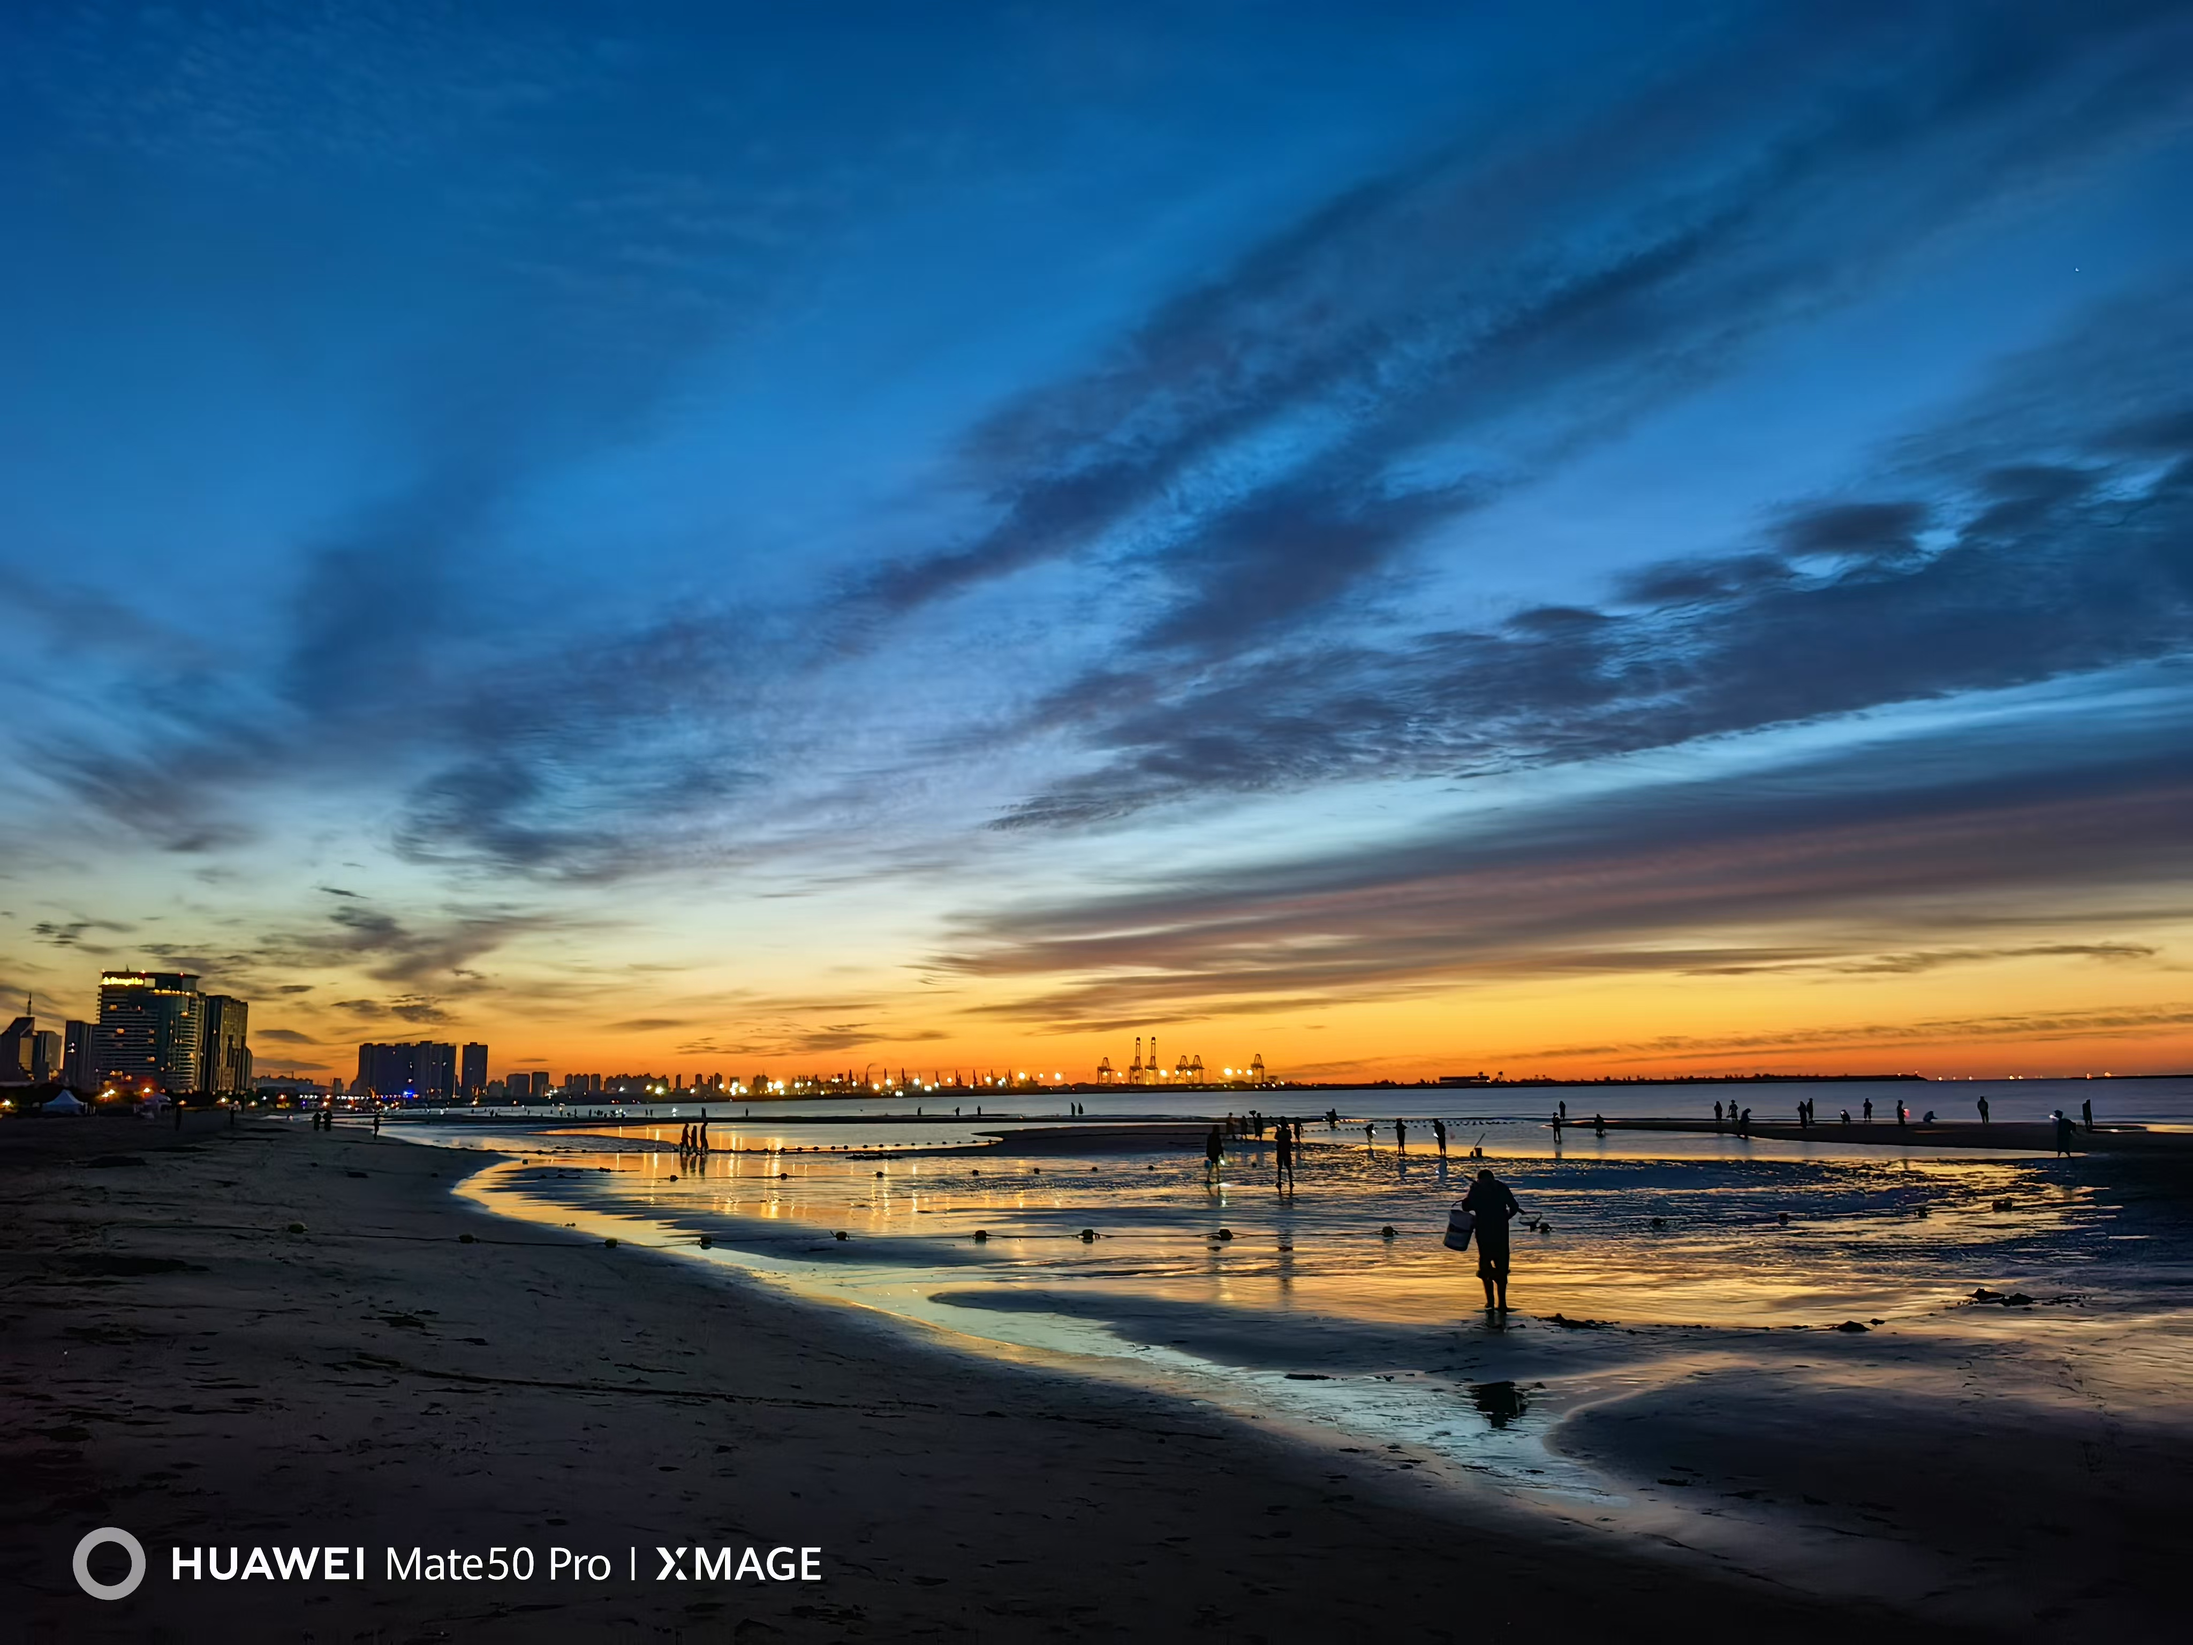
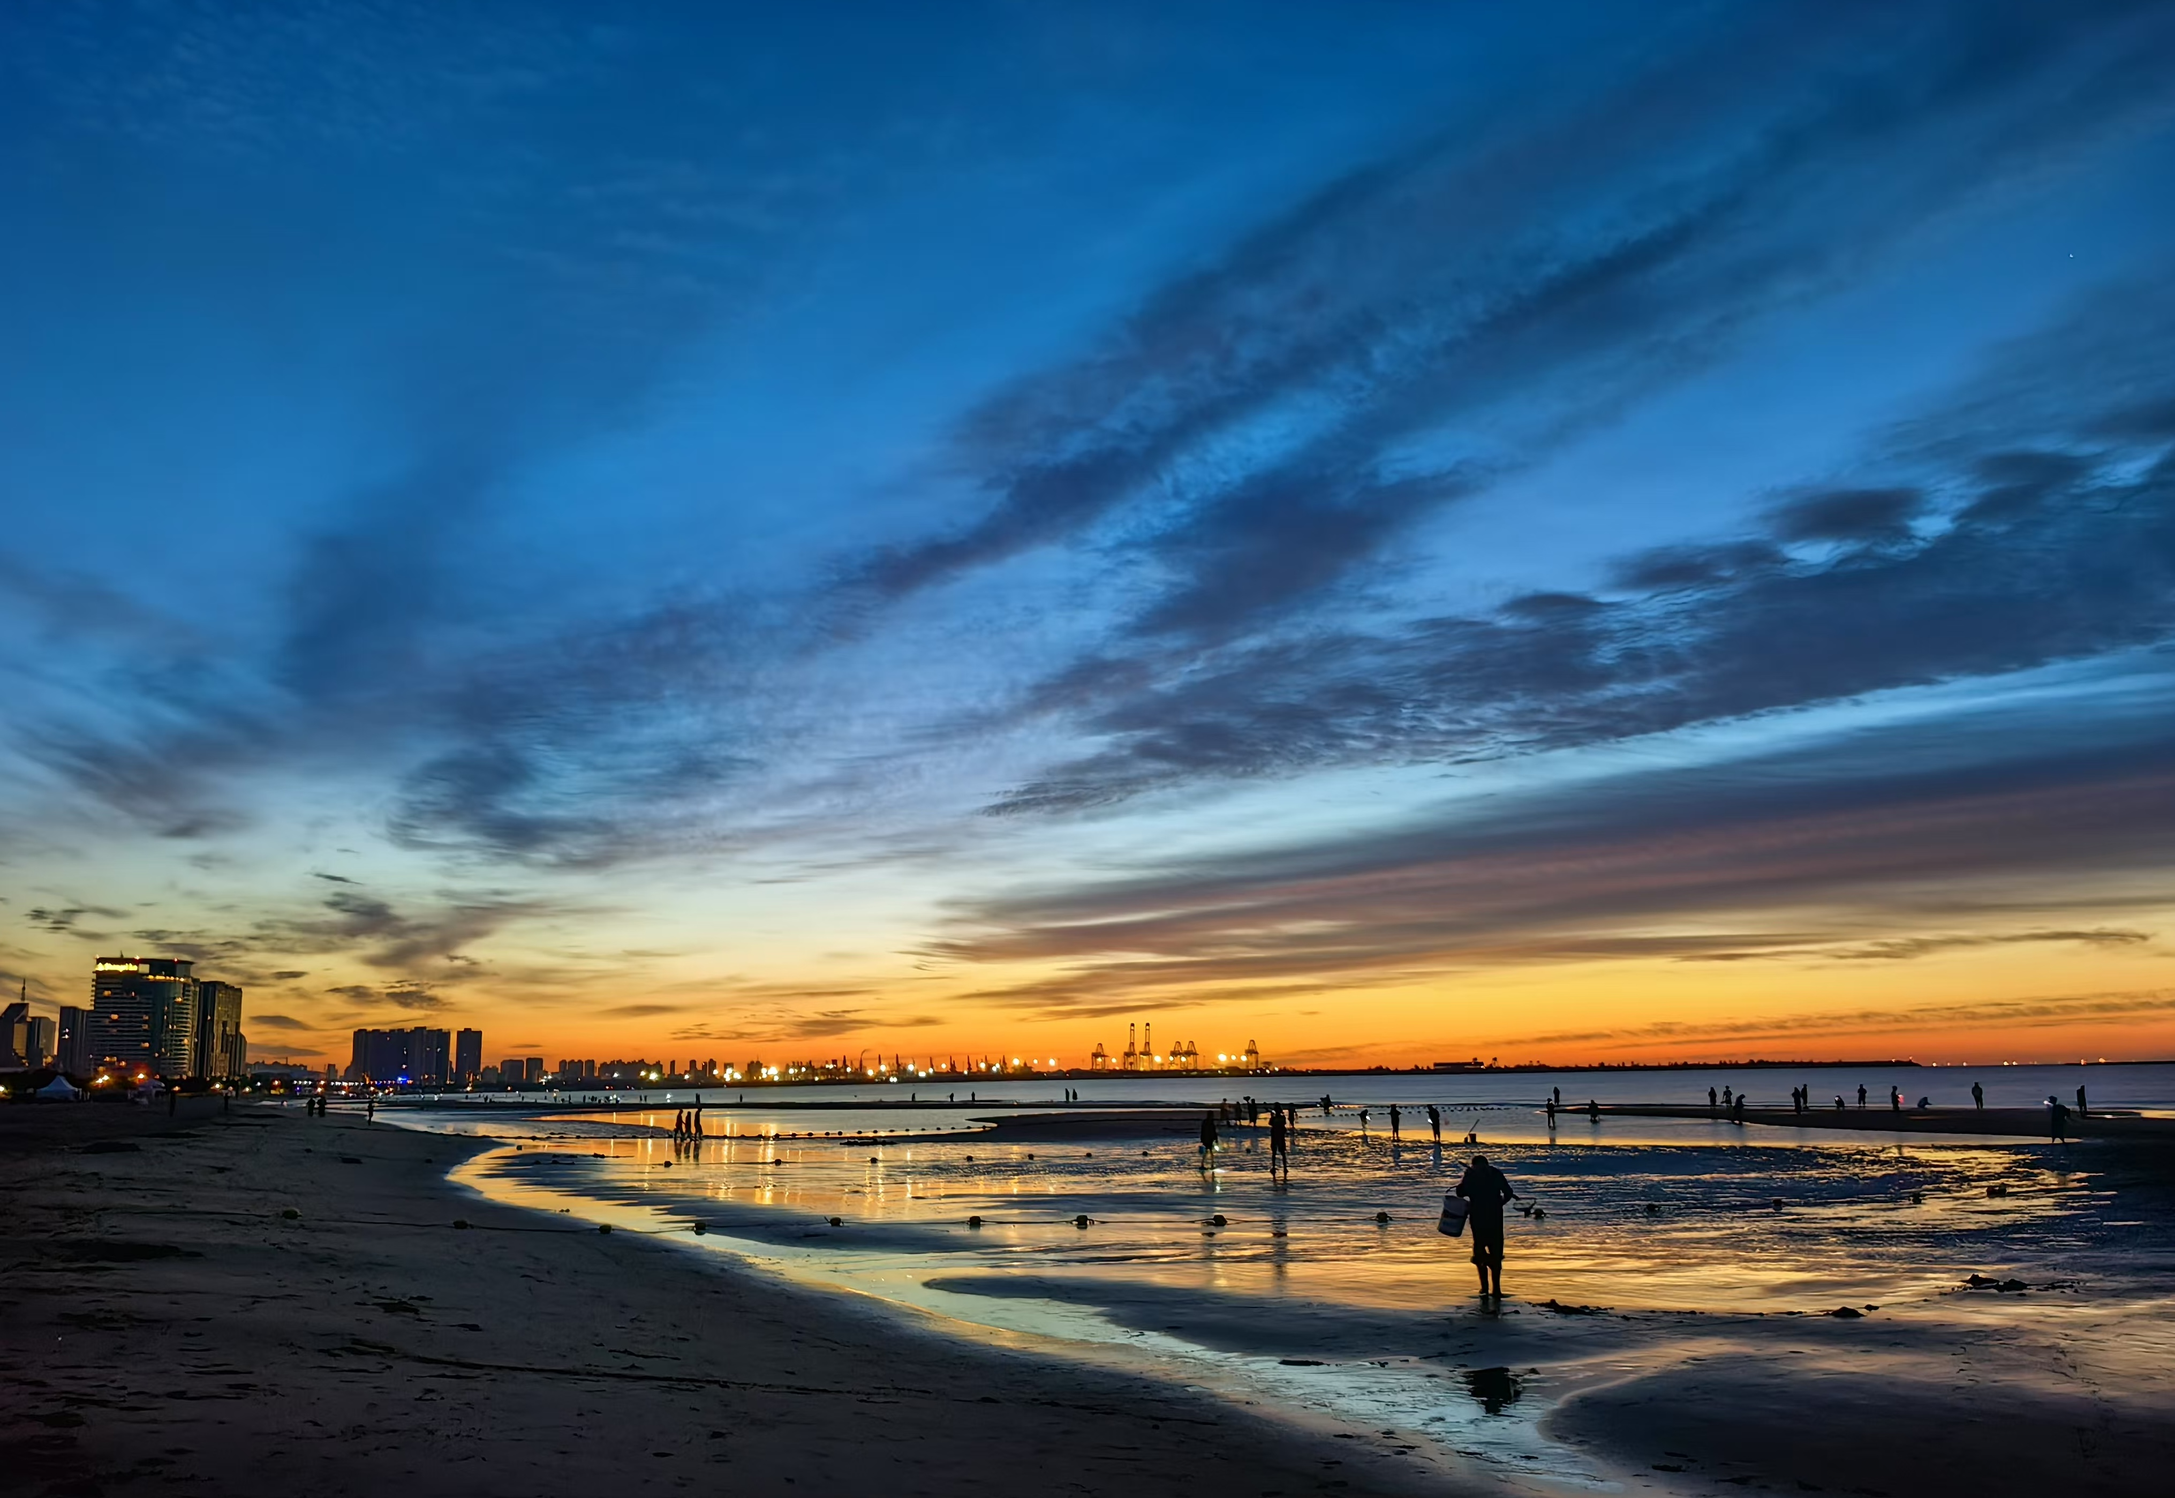
恢复 Articles 原时间线并保留两篇论文；纠正图片用途：background.jpg 作头像、Mars_background.jpg 作背景

diff --git a/index.html b/index.html
@@ -149,6 +149,26 @@
                     </a>
                 </div>
 
+                <div class="right-div left-time">
+                    <ul id="line">
+                        <li>
+                            <div class="focus"></div>
+                            <div>实验中，敬请期待</div>
+                            <div>2025.02</div>
+                        </li>
+                        <li>
+                            <div class="focus"></div>
+                            <div>拿到试验样品</div>
+                            <div>2024.12</div>
+                        </li>
+                        <li>
+                            <div class="focus"></div>
+                            <div>项目立项</div>
+                            <div>2024.10</div>
+                        </li>
+                    </ul>
+                </div>
+
                 <div class="title"><svg t="1705257422086" class="icon" viewBox="0 0 1024 1024" version="1.1" xmlns="http://www.w3.org/2000/svg" p-id="1891" >
                         <path d="M629.333333 202.666667v213.333333h277.333334v448h-512v-213.333333h-277.333334v-448h512z m213.333334 277.333333h-213.333334v170.666667h-170.666666v149.333333h384v-320z m-277.333334-213.333333h-384v320h213.333334v-170.666667h170.666666v-149.333333z m0 213.333333h-106.666666v106.666667h106.666666v-106.666667z"  p-id="1892"></path>
                     </svg>Reviews

diff --git a/style.css b/style.css
@@ -191,16 +191,10 @@ body {
     aspect-ratio: 1/1;
     margin-top: 50px;
     border-radius: 50%;
-    background: radial-gradient(circle at 35% 30%, #a78bfa 0%, #6d5efc 45%, #4f46e5 100%);
-}
-
-.logo::after {
-    content: "";
-    position: absolute;
-    inset: -6%;
-    border-radius: 50%;
-    border: 3px solid rgba(196, 181, 253, 0.7);
-    transform: rotate(-22deg) scaleY(0.42);
+    background-image: var(--avatar_image);
+    background-size: cover;
+    background-position: center;
+    box-shadow: 0 8px 24px -8px #00000040;
 }
 
 .right-div {
@@ -333,17 +327,11 @@ body {
     max-width: 200px;
     aspect-ratio: 1/1;
     border-radius: 50%;
-    border: 0.5px solid #ffffff;
-    background: radial-gradient(circle at 35% 30%, #a78bfa 0%, #6d5efc 45%, #4f46e5 100%);
-}
-
-.index-logo::after {
-    content: "";
-    position: absolute;
-    inset: -6%;
-    border-radius: 50%;
-    border: 3px solid rgba(196, 181, 253, 0.7);
-    transform: rotate(-22deg) scaleY(0.42);
+    border: 2px solid #ffffff;
+    background-image: var(--avatar_image);
+    background-size: cover;
+    background-position: center;
+    box-shadow: 0 8px 24px -8px #00000055;
 }
 
 .description {

diff --git a/root.css b/root.css
@@ -7,7 +7,8 @@
 /* ===== 浅色主题（默认） ===== */
 html {
     --main_bg_color: linear-gradient(160deg, #cfe8ff 0%, #eaf2ff 45%, #ffffff 100%);
-    --bg_image: url("background.jpg");
+    --bg_image: url("Mars_background.jpg");
+    --avatar_image: url("background.jpg");
     --main_text_color: #1a1a1a;
     --gradient: linear-gradient(120deg, #bd34fe, #e0321b 30%, #41d1ff 60%);
     --purple_text_color: #6d5efc;
@@ -28,6 +29,7 @@ html {
 html[data-theme="Dark"] {
     --main_bg_color: linear-gradient(160deg, #0f0c29 0%, #302b63 50%, #24243e 100%);
     --bg_image: url("Mars_background.jpg");
+    --avatar_image: url("background.jpg");
     --main_text_color: #eeeeee;
     --gradient: linear-gradient(120deg, #bd34fe, #e0321b 30%, #41d1ff 60%);
     --purple_text_color: #747bff;

diff --git a/.workbuddy/memory/2026-08-11.md b/.workbuddy/memory/2026-08-11.md
@@ -8,3 +8,11 @@
 - 推送后已把 `.git/config` 里的明文 PAT 抹掉，remote URL 回到无令牌的 `https://github.com/maohaotian187/maohaotian187.github.io.git`。
 - 本地分支已对齐为 `main` 并跟踪 `origin/main`。
 - 提醒用户：用完后去 GitHub 撤销该 PAT（Settings → Developer settings → PAT）。
+
+## Articles 区新增两篇论文 + 接入素材
+- 两篇 DOI 经 Crossref 拉取元数据，均为 Haotian Mao 的论文：Chem. Commun. 2026 (10.1039/d6cc02008a)、iScience 2026 (10.1016/j.isci.2025.114432)。
+- Articles 区原来的占位时间线（实验中/拿到样品/立项）替换为两篇文章卡片（标题+作者+期刊·年·卷期页码+DOI 外链）。
+- favicon 改为用户提供的 `martin_web.ico`（注意：用户口述是 "ico"，实际文件名是 martin_web.ico）。
+- 用户新增 `background.jpg` / `Mars_background.jpg`，接入为浅色/深色主题背景（`--bg_image` + body 背景分层），并加强 `--back_filter_color` 蒙版保证文字可读。
+- 已提交本地 (190d42c)，尚未推送（等用户明确指令；且旧 PAT 可能已撤销）。
+
